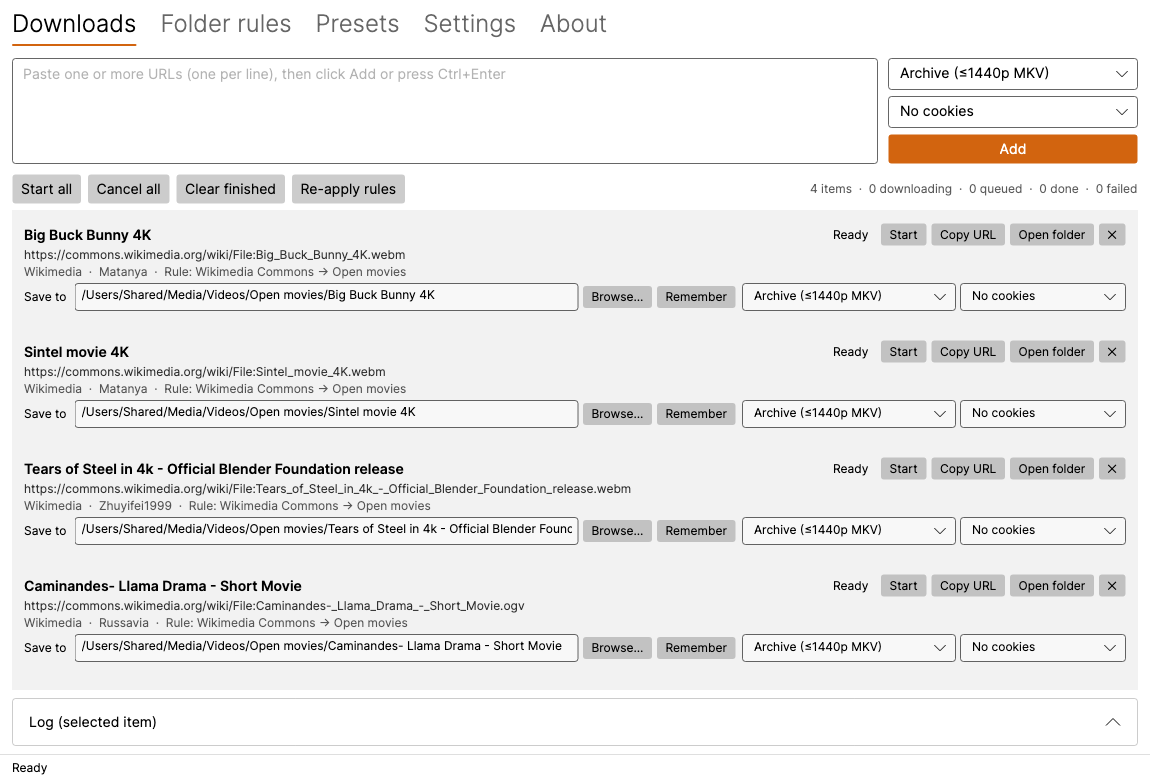
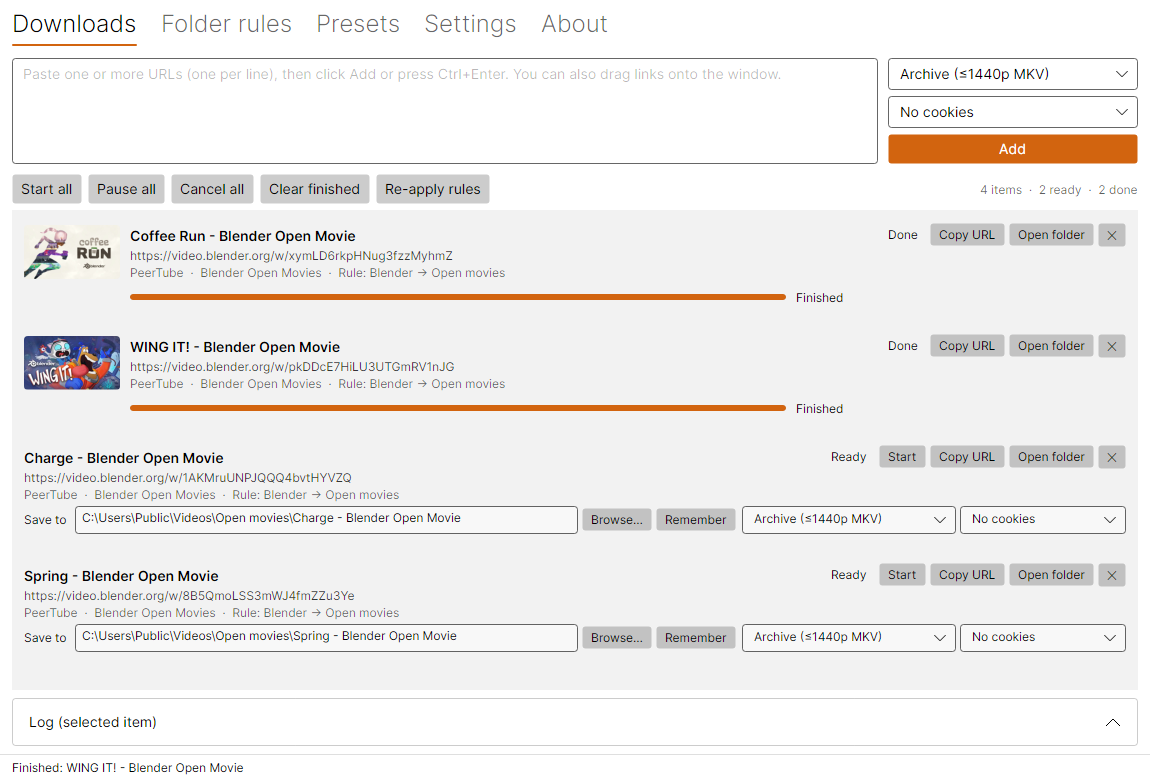
Show finished downloads with thumbnails in the Downloads screenshots
The new screenshots show four Blender open movies from video.blender.org, two
downloaded for real so their thumbnails show. Wikimedia Commons, used before,
has no thumbnails, and archive.org lists uploaders by email address.

Screenshot mode can now download the first n links (VIDARCHIVERGUI_SNAPSHOT_START)
and take the pictures in several themes in one run (VIDARCHIVERGUI_SNAPSHOT_THEME=Dark,Light).

diff --git a/docs/index.html b/docs/index.html
@@ -192,9 +192,9 @@ footer a:hover { color: var(--text); }
        alt="Download from the Microsoft Store"></a>
   </div>
   <img class="shot shot-light" src="screenshots/downloads-light.png" width="1150" height="780"
-       alt="Downloads tab: four videos, each filed into a folder by a rule">
+       alt="Downloads tab: four Blender open movies, each filed into a folder by a rule, two finished with thumbnails">
   <img class="shot shot-dark" src="screenshots/downloads.png" width="1150" height="780"
-       alt="Downloads tab in the dark theme: four videos, each filed into a folder by a rule">
+       alt="Downloads tab in the dark theme: four Blender open movies, each filed into a folder by a rule, two finished with thumbnails">
 </div>
 
 <section id="features" class="alt">

diff --git a/src/VidArchiverGui.App/App.Snapshots.cs b/src/VidArchiverGui.App/App.Snapshots.cs
@@ -10,7 +10,8 @@ namespace VidArchiverGui.App;
 
 /// <summary>
 /// Development aid: VIDARCHIVERGUI_SNAPSHOT_DIR=&lt;dir&gt; renders each tab to a PNG offscreen and exits. Optional:
-/// VIDARCHIVERGUI_SNAPSHOT_THEME (Light/Dark), _URLS (";"-separated links to add), _COPY=1 (copy the first URL),
+/// VIDARCHIVERGUI_SNAPSHOT_THEME (Light/Dark, or "Light,Dark" for both), _URLS (";"-separated links to add),
+/// _START=&lt;n&gt; (download the first n links for real and wait for them), _COPY=1 (copy the first URL),
 /// _SETUP=1 (fresh-machine run: capture, press "Fix now", capture again), _DOWNLOAD=&lt;url&gt; and _PRESET=&lt;name&gt;
 /// (with _SETUP: download for real to prove the whole pipeline).
 /// </summary>
@@ -43,6 +44,7 @@ public partial class App
     {
         if (SnapshotDir is { } dir)
         {
+            vm.SettingsTab.Settings.NotifyWhenDone = false; // the window is never in front, so every finished run would notify
             window.Opened += async (_, _) => await SnapshotTabsAsync(window, vm, dir, desktop);
         }
     }
@@ -59,10 +61,13 @@ public partial class App
     private static async Task SnapshotTabsAsync(Window window, MainWindowViewModel vm, string dir, IClassicDesktopStyleApplicationLifetime desktop)
     {
         Directory.CreateDirectory(dir);
-        // Preview a theme without touching the saved setting.
-        if (Enum.TryParse<AppTheme>(Environment.GetEnvironmentVariable("VIDARCHIVERGUI_SNAPSHOT_THEME"), out var theme))
+        // Preview themes without touching the saved setting.
+        var themes = (Environment.GetEnvironmentVariable("VIDARCHIVERGUI_SNAPSHOT_THEME") ?? "")
+            .Split(',', StringSplitOptions.RemoveEmptyEntries | StringSplitOptions.TrimEntries)
+            .Select(t => Enum.TryParse<AppTheme>(t, out var theme) ? theme : (AppTheme?)null).OfType<AppTheme>().ToList();
+        if (themes.Count > 0)
         {
-            ((App)Current!).ApplyTheme(theme);
+            ((App)Current!).ApplyTheme(themes[0]);
         }
 
         if (Environment.GetEnvironmentVariable("VIDARCHIVERGUI_SNAPSHOT_URLS") is { Length: > 0 } urls)
@@ -83,6 +88,21 @@ public partial class App
         }
 
         await WaitForSetupCheckAsync(vm);
+        if (int.TryParse(Environment.GetEnvironmentVariable("VIDARCHIVERGUI_SNAPSHOT_START"), out var start))
+        {
+            foreach (var item in vm.Downloads.Items.Take(start))
+            {
+                item.StartCommand.Execute(null);
+            }
+
+            for (var i = 0; i < 1200 && vm.Downloads.Items.Any(x => x.State is DownloadState.Queued or DownloadState.Downloading); i++)
+            {
+                await Task.Delay(500);
+            }
+
+            await Task.Delay(3000); // thumbnails load after a download finishes
+        }
+
         if (Environment.GetEnvironmentVariable("VIDARCHIVERGUI_SNAPSHOT_COPY") == "1" && vm.Downloads.Items.FirstOrDefault() is { } first)
         {
             await first.CopyUrlCommand.ExecuteAsync(null);
@@ -131,9 +151,19 @@ public partial class App
         }
 
         vm.About.ShowNotices = true; // proves the embedded notices load
-        foreach (var tab in Enum.GetValues<MainTab>())
+        vm.CurrentTab = MainTab.About; // leaving the tab takes the focus off the URL box, so it has no focus border
+        await Task.Delay(300);
+        foreach (var theme in themes.Count > 1 ? themes.Cast<AppTheme?>() : [null])
         {
-            await SaveTabAsync(window, vm, tab, Path.Combine(dir, $"tab{(int)tab}.png"));
+            if (theme is { } t)
+            {
+                ((App)Current!).ApplyTheme(t);
+            }
+
+            foreach (var tab in Enum.GetValues<MainTab>())
+            {
+                await SaveTabAsync(window, vm, tab, Path.Combine(dir, theme is null ? $"tab{(int)tab}.png" : $"tab{(int)tab}-{theme}.png"));
+            }
         }
 
         desktop.Shutdown();

diff --git a/README.md b/README.md
@@ -20,7 +20,7 @@ every download gets filed into the right folder automatically.
 
 ____
 
-![Downloads tab with four videos, each filed into a folder by a rule](docs/screenshots/downloads-light.png)
+![Downloads tab with four Blender open movies, each filed into a folder by a rule, two finished with thumbnails](docs/screenshots/downloads-light.png)
 
 It's a from-scratch rewrite in C# (.NET 10 and Avalonia), not a fork, and it doesn't include any code from yt-dlg.
 Most of the code was written with AI (Claude Opus 5.5), and I've tested it a lot.
@@ -284,6 +284,9 @@ and choose **Open** instead.
 
 Debug builds can render every tab to PNG files without opening a window and then exit, which is handy for checking UI changes. Set
 `VIDARCHIVERGUI_SNAPSHOT_DIR=<folder>`, and optionally `VIDARCHIVERGUI_SNAPSHOT_URLS=url1;url2` to add some links first.
+`VIDARCHIVERGUI_SNAPSHOT_START=<n>` downloads the first n of those links for real before taking the pictures, and
+`VIDARCHIVERGUI_SNAPSHOT_THEME=Dark,Light` takes them in both themes. The Downloads screenshots in `docs/screenshots`
+were made this way, with Blender's open movies from video.blender.org.
 
 To simulate a first run, also set `VIDARCHIVERGUI_SNAPSHOT_SETUP=1` (with a `portable.txt` next to the app so it
 starts with a clean data folder). It captures the setup banner and presses **Fix now**. Add
